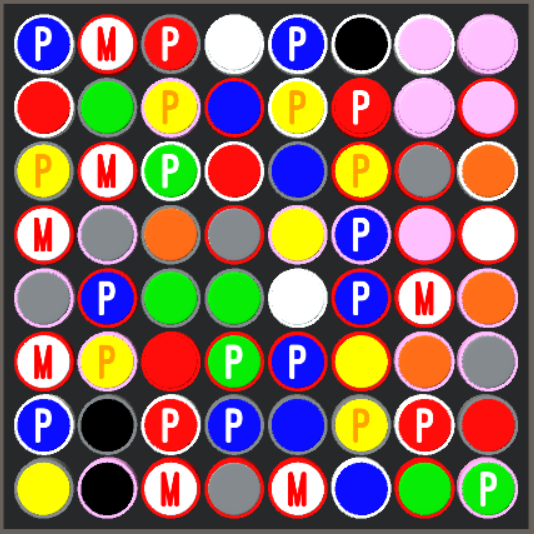
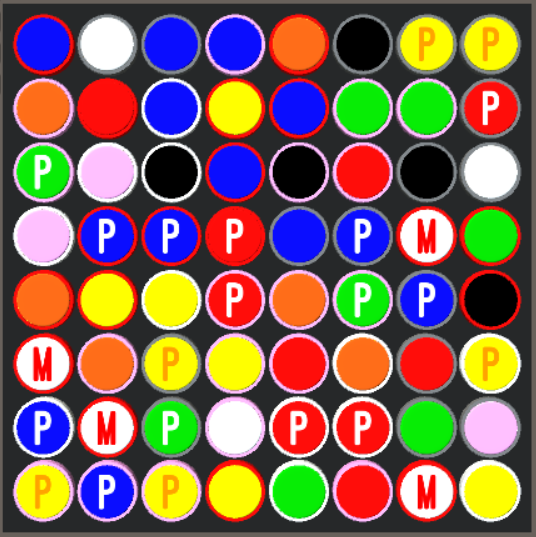
Removed gray as a button color possibility

diff --git a/Assets/ButtonageScript.cs b/Assets/ButtonageScript.cs
@@ -84,7 +84,7 @@ public class ButtonageScript : MonoBehaviour {
                 case 8:
                 case 9:
                     btnTexts[i].text = "";
-                    int choice3 = UnityEngine.Random.Range(0, colorMats.Length);
+                    int choice3 = UnityEngine.Random.Range(0, colorMats.Length - 1);
                     chosenBtns[i] = choice3;
                     btnRends[i].material = colorMats[choice3];
                     int choice4 = UnityEngine.Random.Range(0, borderSet.Length);
